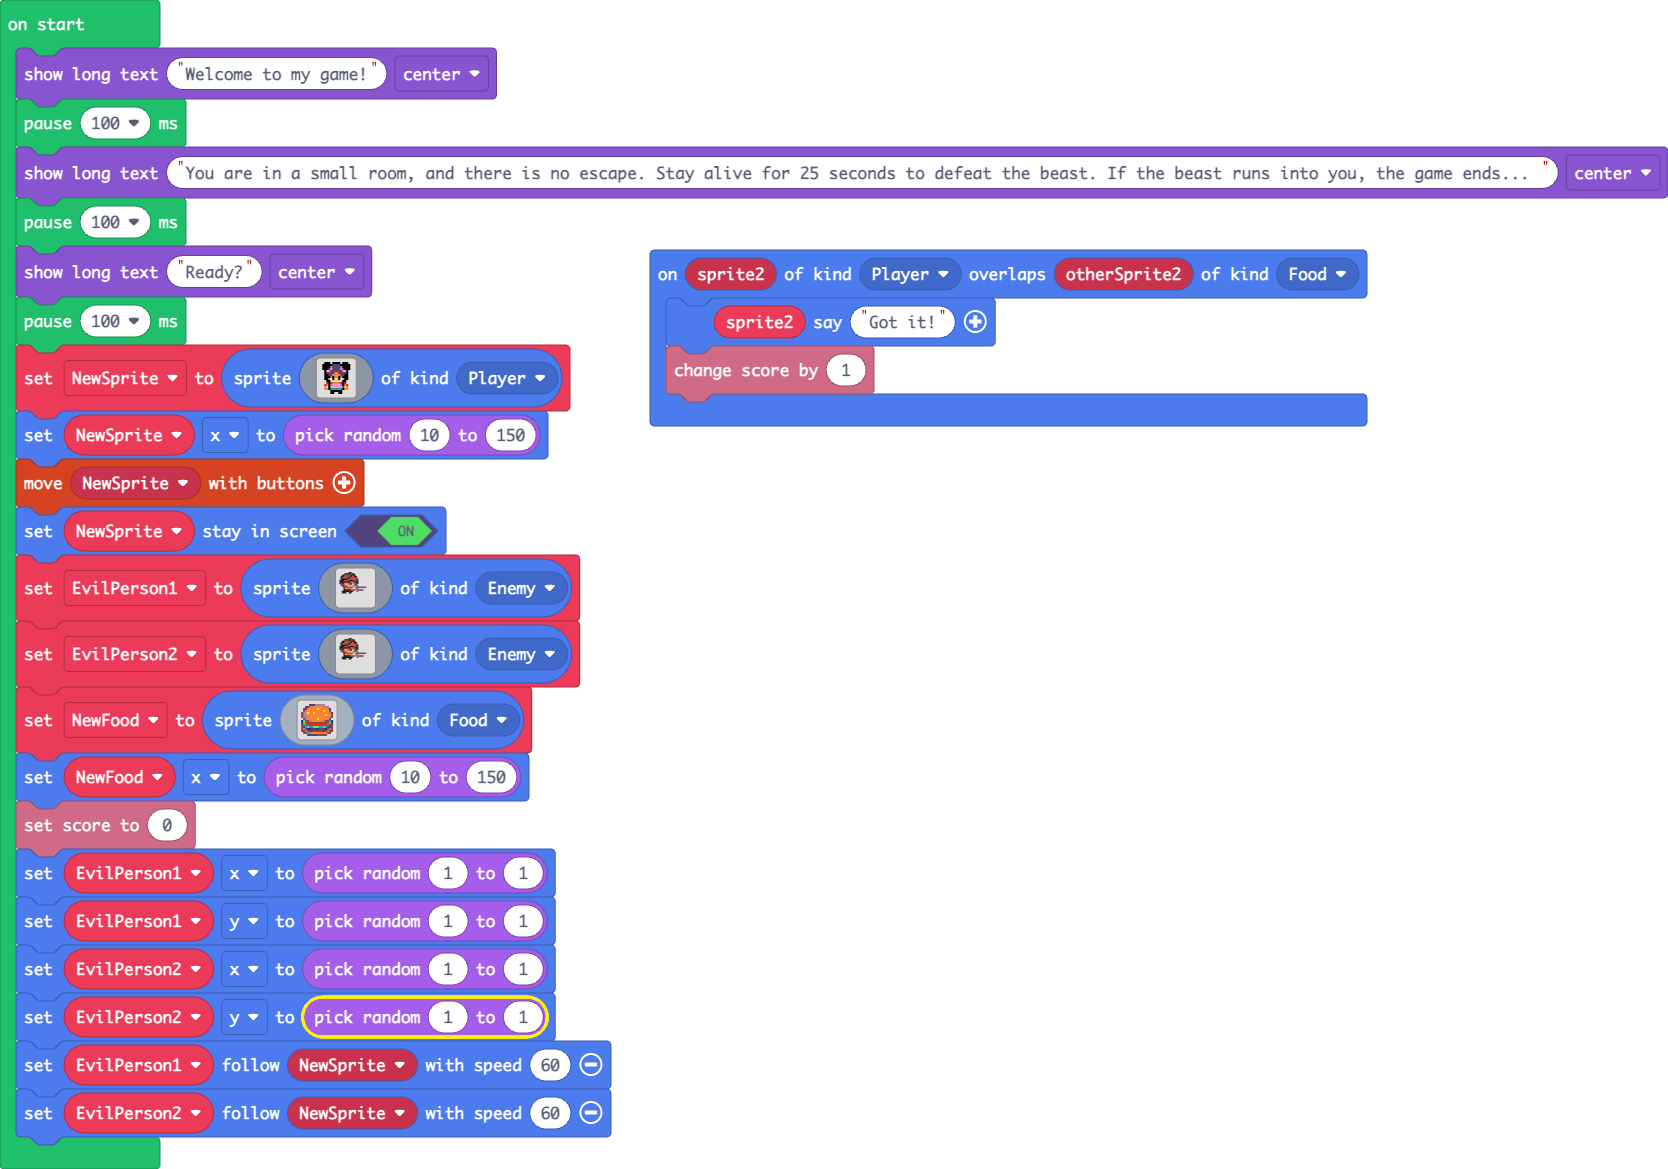
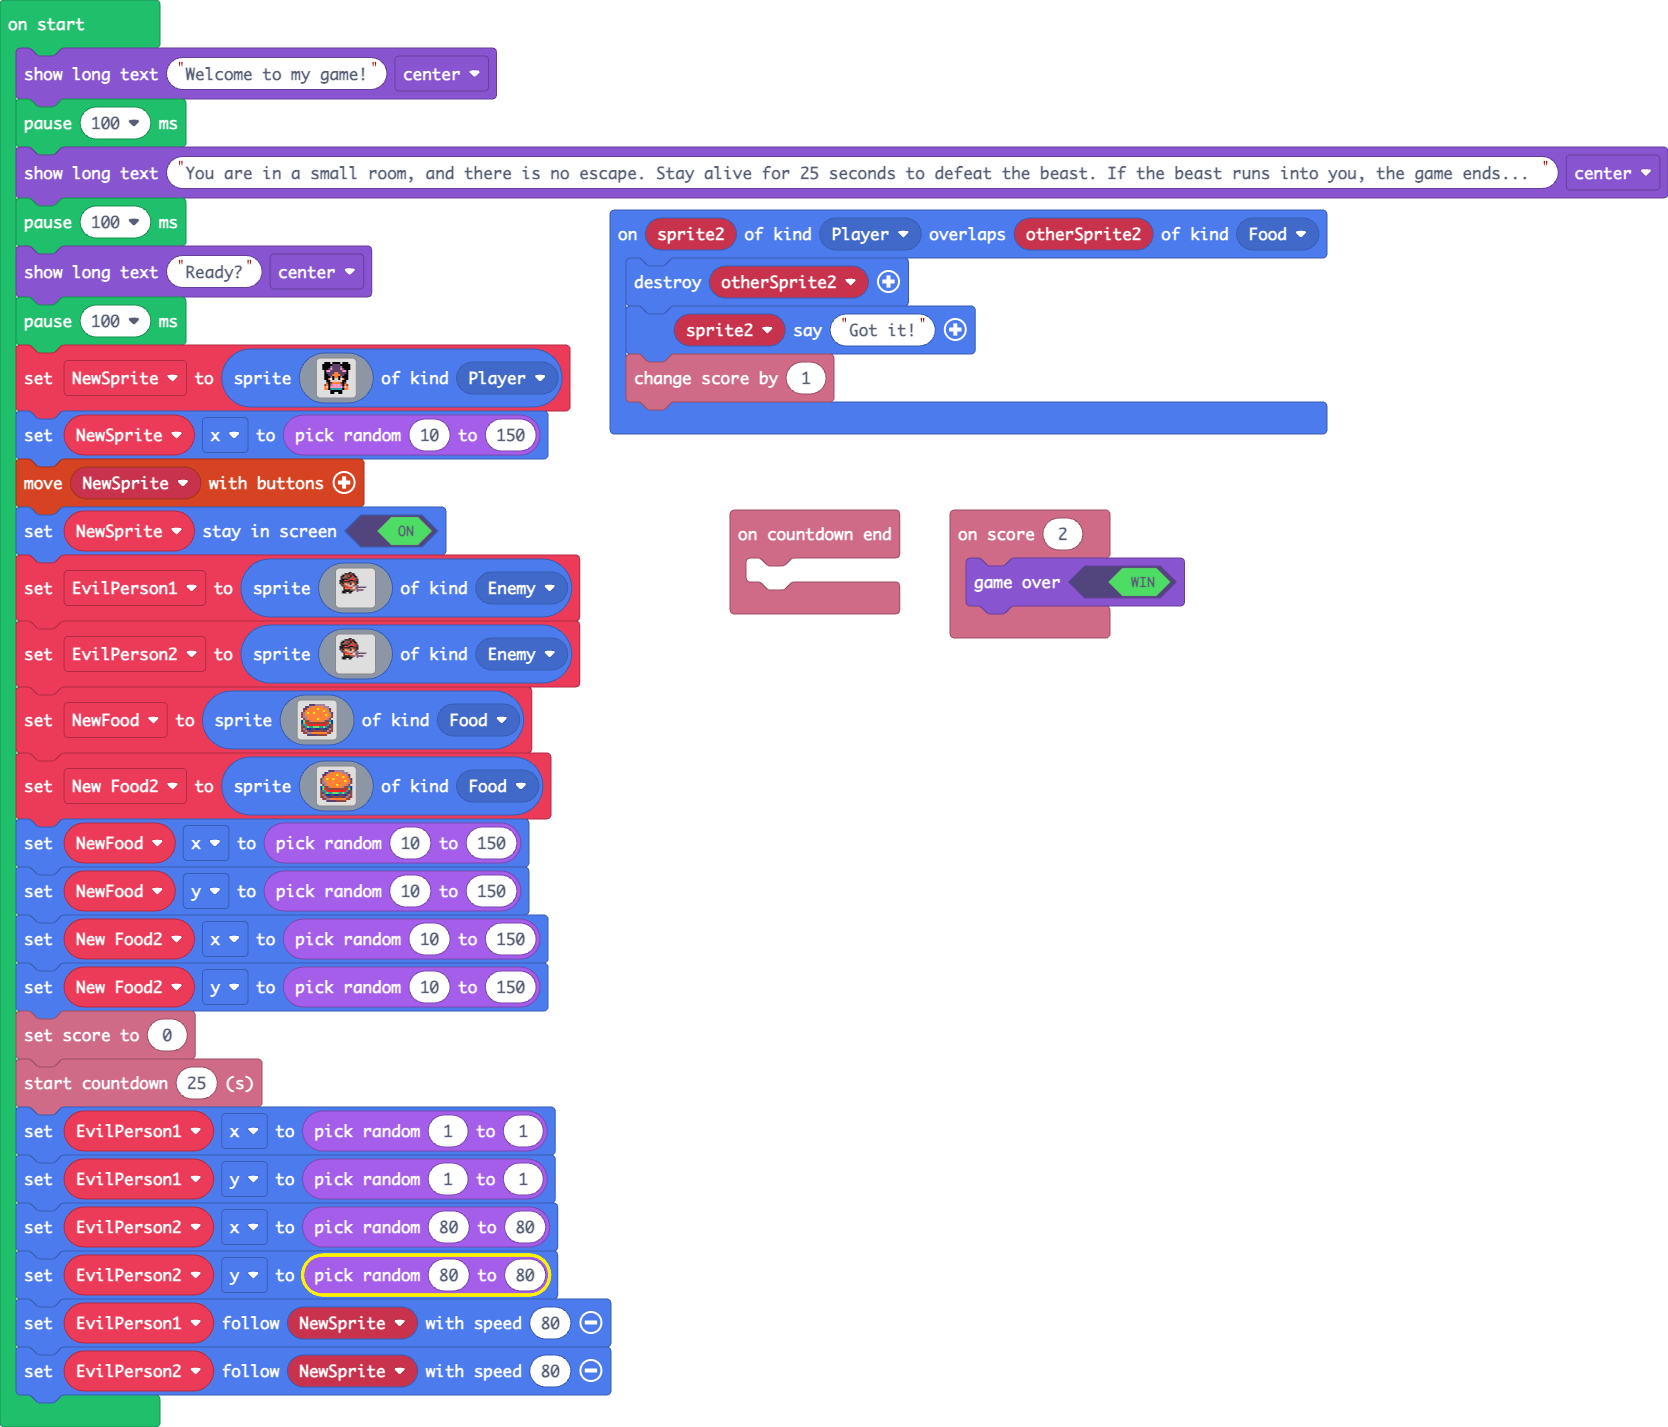
Update pxt.json, main.blocks, main.ts, main.py

diff --git a/main.ts b/main.ts
@@ -1,4 +1,11 @@
+info.onCountdownEnd(function () {
+	
+})
+info.onScore(2, function () {
+    game.gameOver(true)
+})
 sprites.onOverlap(SpriteKind.Player, SpriteKind.Food, function (sprite2, otherSprite2) {
+    sprites.destroy(otherSprite2)
     sprite2.sayText("Got it!")
     info.changeScoreBy(1)
 })
@@ -15,11 +22,16 @@ NewSprite.setStayInScreen(true)
 let EvilPerson1 = sprites.create(assets.image`EvilPerson`, SpriteKind.Enemy)
 let EvilPerson2 = sprites.create(assets.image`EvilPerson`, SpriteKind.Enemy)
 let NewFood = sprites.create(assets.image`Burger`, SpriteKind.Food)
+let New_Food2 = sprites.create(assets.image`Burger`, SpriteKind.Food)
 NewFood.x = randint(10, 150)
+NewFood.y = randint(10, 150)
+New_Food2.x = randint(10, 150)
+New_Food2.y = randint(10, 150)
 info.setScore(0)
+info.startCountdown(25)
 EvilPerson1.x = randint(1, 1)
 EvilPerson1.y = randint(1, 1)
-EvilPerson2.x = randint(1, 1)
-EvilPerson2.y = randint(1, 1)
-EvilPerson1.follow(NewSprite, 60)
-EvilPerson2.follow(NewSprite, 60)
+EvilPerson2.x = randint(80, 80)
+EvilPerson2.y = randint(80, 80)
+EvilPerson1.follow(NewSprite, 80)
+EvilPerson2.follow(NewSprite, 80)

diff --git a/main.py b/main.py
@@ -1,21 +1,28 @@
-def on_on_overlap(sprite, otherSprite):
-    game.game_over(False)
-sprites.on_overlap(SpriteKind.enemy, SpriteKind.player, on_on_overlap)
+def on_countdown_end():
+    pass
+info.on_countdown_end(on_countdown_end)
 
-def on_on_overlap2(sprite2, otherSprite2):
+def on_on_score():
     game.game_over(True)
-sprites.on_overlap(SpriteKind.player, SpriteKind.food, on_on_overlap2)
+info.on_score(2, on_on_score)
 
-game.show_long_text("Welcome to my game!", DialogLayout.BOTTOM)
+def on_on_overlap(sprite2, otherSprite2):
+    sprites.destroy(otherSprite2)
+    sprite2.say_text("Got it!")
+    info.change_score_by(1)
+sprites.on_overlap(SpriteKind.player, SpriteKind.food, on_on_overlap)
+
+game.show_long_text("Welcome to my game!", DialogLayout.CENTER)
 pause(100)
 game.show_long_text("You are in a small room, and there is no escape. Stay alive for 25 seconds to defeat the beast. If the beast runs into you, the game ends... ",
-    DialogLayout.BOTTOM)
+    DialogLayout.CENTER)
 pause(100)
-game.show_long_text("Ready?", DialogLayout.BOTTOM)
+game.show_long_text("Ready?", DialogLayout.CENTER)
 pause(100)
 NewSprite = sprites.create(assets.image("""
     Hero
 """), SpriteKind.player)
+NewSprite.x = randint(10, 150)
 controller.move_sprite(NewSprite)
 NewSprite.set_stay_in_screen(True)
 EvilPerson1 = sprites.create(assets.image("""
@@ -24,9 +31,19 @@ EvilPerson1 = sprites.create(assets.image("""
 EvilPerson2 = sprites.create(assets.image("""
     EvilPerson
 """), SpriteKind.enemy)
-EvilPerson1.x = randint(10, 150)
-EvilPerson1.y = randint(10, 80)
-EvilPerson1.x = randint(10, 80)
-EvilPerson2.y = randint(10, 80)
+NewFood = sprites.create(assets.image("""
+    Burger
+"""), SpriteKind.food)
+New_Food2 = sprites.create(assets.image("""
+    Burger
+"""), SpriteKind.food)
+NewFood.x = randint(10, 150)
+New_Food2.x = randint(10, 150)
+info.set_score(0)
+info.start_countdown(25)
+EvilPerson1.x = randint(1, 1)
+EvilPerson1.y = randint(1, 1)
+EvilPerson2.x = randint(20, 20)
+EvilPerson2.y = randint(20, 20)
 EvilPerson1.follow(NewSprite, 60)
 EvilPerson2.follow(NewSprite, 60)
